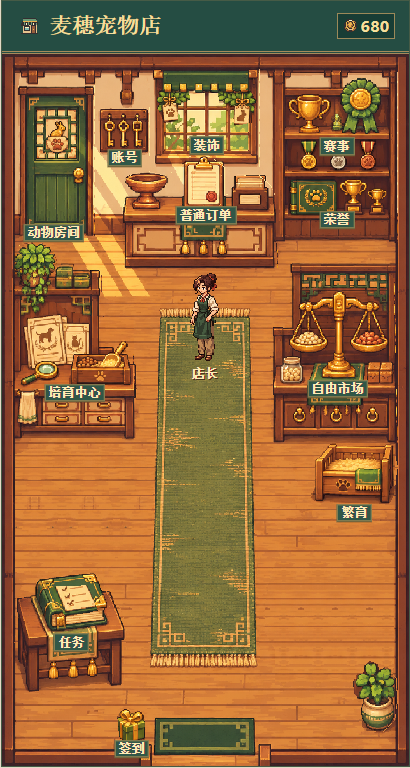
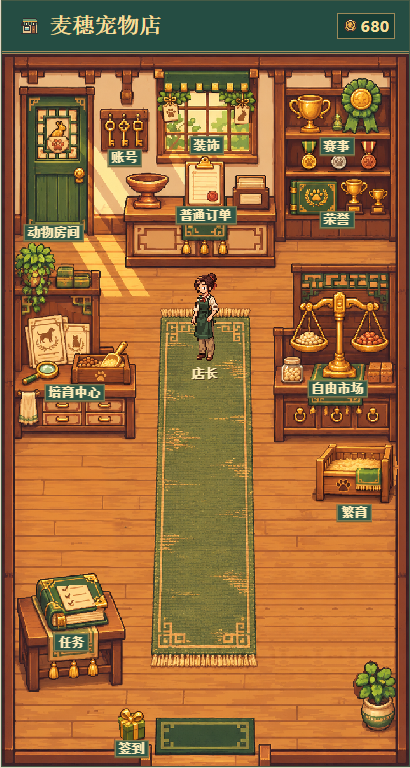
修正首页木地板和门窗图层接缝

diff --git a/制作/首页场景拆分/preview.js b/制作/首页场景拆分/preview.js
@@ -2,6 +2,13 @@ const scene = globalThis.PETSHOP_SCENE;
 const $ = id => document.getElementById(id);
 const shop = $('shop-scene');
 const pieces = $('pieces');
+const sceneCanvas = document.createElement('canvas');
+sceneCanvas.width = scene.width;
+sceneCanvas.height = scene.height;
+sceneCanvas.className = 'scene-canvas';
+const painter = sceneCanvas.getContext('2d');
+painter.imageSmoothingEnabled = false;
+const textures = new Map();
 const entrances = $('entrances');
 const curtain = $('curtain');
 const select = $('piece-select');
@@ -44,12 +51,32 @@ function position(element, x, y, w, h) {
   if (h !== undefined) element.style.height = h / scene.height * 100 + '%';
 }
 
-function createImage(src) {
-  const image = new Image();
-  image.src = src;
-  image.alt = '';
-  image.draggable = false;
-  return image;
+function isVisible(item) {
+  return item.visible && !(mode === 'play' && signInClaimed && item.id === 'checkin-gift');
+}
+
+function paintScene() {
+  if (!textures.has(scene.wallFloor)) return;
+  painter.clearRect(0, 0, scene.width, scene.height);
+  painter.drawImage(textures.get(scene.wallFloor), 0, 0);
+  for (const item of current()) {
+    if (isVisible(item)) painter.drawImage(textures.get(item.src), item.x, item.y, item.w, item.h);
+  }
+}
+
+async function loadSceneTextures() {
+  const paths = new Set([
+    scene.wallFloor,
+    ...[...scene.original, ...scene.revised].map(item => item.src),
+  ]);
+  const loaded = await Promise.all([...paths].map(async src => {
+    const image = new Image();
+    image.src = src;
+    await image.decode();
+    return [src, image];
+  }));
+  for (const [src, image] of loaded) textures.set(src, image);
+  paintScene();
 }
 
 function selectPiece(id) {
@@ -61,18 +88,16 @@ function selectPiece(id) {
 }
 
 function renderPieces() {
-  const background = createImage(scene.wallFloor);
-  background.className = 'piece';
-  position(background, 0, 0, scene.width, scene.height);
-  pieces.replaceChildren(background);
+  // Composite the native pixels before scaling the room to the viewport.
+  pieces.replaceChildren(sceneCanvas);
+  paintScene();
   for (const item of current()) {
-    if (!item.visible || (mode === 'play' && signInClaimed && item.id === 'checkin-gift')) continue;
+    if (!isVisible(item)) continue;
     const movable = mode === 'edit' && !item.locked;
     const piece = document.createElement(movable ? 'button' : 'div');
     piece.className = 'piece';
     piece.dataset.id = item.id;
     piece.classList.toggle('selected', movable && item.id === selection);
-    piece.append(createImage(item.src));
     position(piece, item.x, item.y, item.w, item.h);
     if (movable) {
       piece.type = 'button';
@@ -160,8 +185,10 @@ function bounded(value, max, fallback) {
 function place(item, x, y, element) {
   item.x = bounded(x, scene.width - item.w, item.x);
   item.y = bounded(y, scene.height - item.h, item.y);
-  if (element) position(element, item.x, item.y, item.w, item.h);
-  else renderPieces();
+  if (element) {
+    position(element, item.x, item.y, item.w, item.h);
+    paintScene();
+  } else renderPieces();
   renderEntrances();
   syncControls();
 }
@@ -369,3 +396,8 @@ $('import-layout').addEventListener('change', importLayout);
 
 loadChoices();
 render();
+loadSceneTextures().catch(error => {
+  console.error(error);
+  $('toast').textContent = '场景素材加载失败，请检查预览文件是否完整。';
+  $('toast').hidden = false;
+});

diff --git a/制作/首页场景拆分/preview.css b/制作/首页场景拆分/preview.css
@@ -54,7 +54,8 @@ button:focus-visible, a:focus-visible, select:focus-visible, input:focus-visible
 .coins img { width: 3.7cqw; }
 .shop-scene { position: relative; aspect-ratio: 4 / 7; overflow: hidden; }
 .pieces, .entrances, .curtain { position: absolute; inset: 0; }
-.pieces img, .shop-header img { image-rendering: pixelated; }
+.scene-canvas, .shop-header img { image-rendering: pixelated; }
+.scene-canvas { display: block; width: 100%; height: 100%; }
 .piece {
   border: 0;
   background: transparent;
@@ -64,7 +65,6 @@ button:focus-visible, a:focus-visible, select:focus-visible, input:focus-visible
   appearance: none;
   touch-action: none;
 }
-.piece img { width: 100%; height: 100%; display: block; pointer-events: none; }
 .piece.selected { outline: 2px dashed #fbe09a; outline-offset: -1px; cursor: grab; }
 .piece.selected:active { cursor: grabbing; }
 .edit .entrances { pointer-events: none; }

diff --git a/制作/首页场景拆分/README.md b/制作/首页场景拆分/README.md
@@ -16,7 +16,7 @@
 
 - [首页效果图.png](首页效果图.png) 是带招牌和店长的 409 像素宽预览。[原版复原.png](原版复原.png) 和 [新版摆放.png](新版摆放.png) 是 640 × 1120 的场景图。
 - `图层/` 存放墙面地板、原版物件和新版透明 PNG。`scene-data.js` 存放叠放顺序、摆放坐标及点击区域。坐标原点在场景左上角，单位为原图像素。地毯、门垫和店长在预览里固定定位。
-- 原始底图来自 `PetShop/assets/art/shop-interior.png`。原版拆分并重新叠放后的像素与原底图完全相同。新版在需要移除旧物件的范围内延续附近木纹，家具被遮挡的表面为补绘。变更范围外的底图像素保持一致。见 [像素校验.json](像素校验.json)。
+- 原始底图来自 `PetShop/assets/art/shop-interior.png`。原版拆分并重新叠放后的像素与原底图完全相同。新版在移除旧物件的位置补齐木纹，培育中心和任务之间的木板接缝与旁边原地板对齐。预览按原图尺寸合成所有物件，再根据屏幕宽度统一缩放。见 [像素校验.json](像素校验.json)。
 - [物件参考-ImageGen.png](物件参考-ImageGen.png) 由内置 ImageGen 生成，局部提取为新版物件。完整 [出图提示词](出图提示词.txt) 随素材保存。
 - 更改拆分形状或默认摆放时，使用 Node.js 和 FFmpeg 运行 `node build-layers.mjs`。从预览导出的布局文件可独立保存。
 
